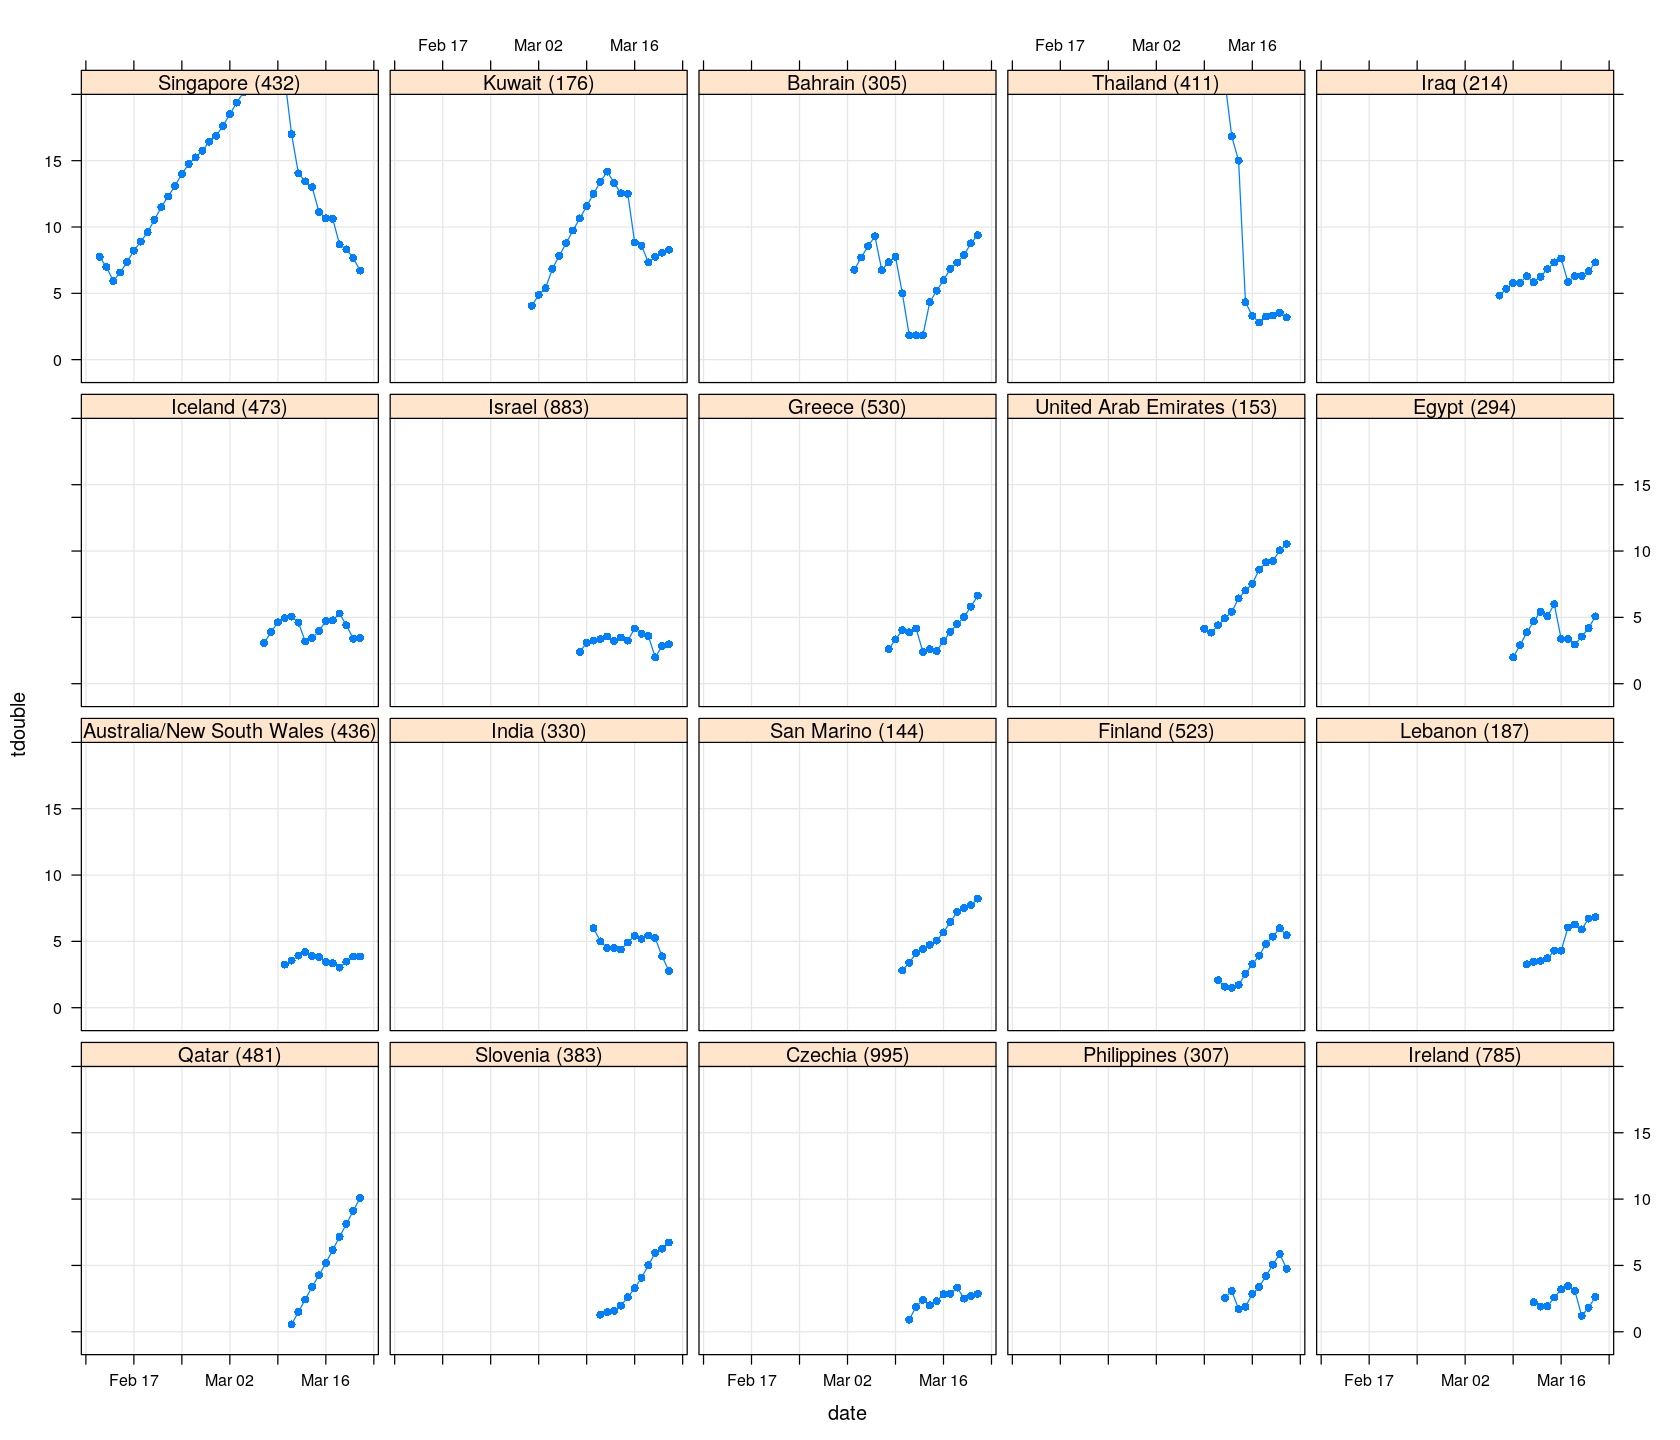
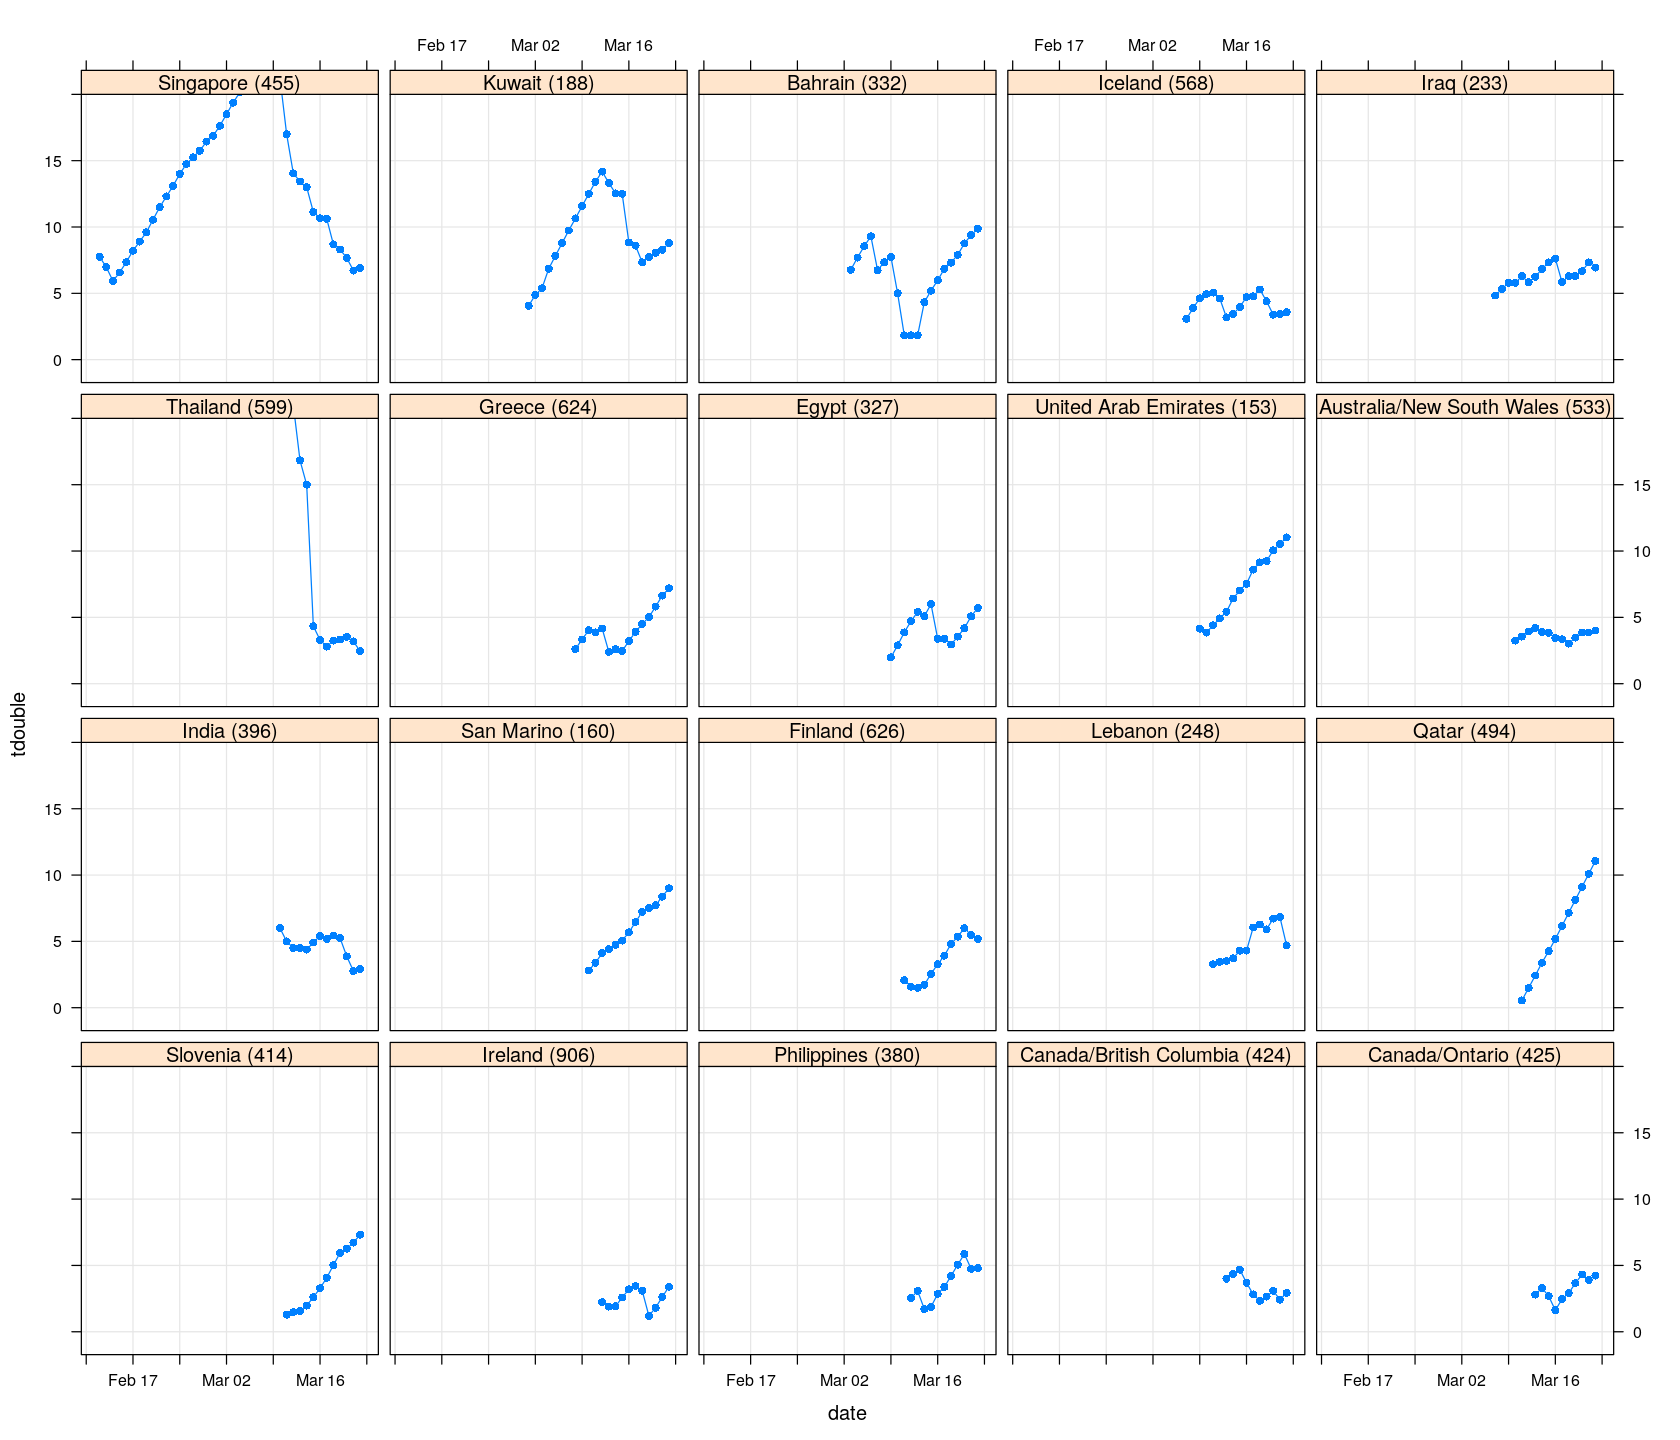
testing markdown rendering

diff --git a/covid-19/doubling.html b/covid-19/doubling.html
@@ -122,7 +122,7 @@ code span.wa { color: #60a0b0; font-weight: bold; font-style: italic; } /* Warni
 <a class="sourceLine" id="cb1-2" title="2"><span class="cf">if</span> (<span class="op">!</span><span class="kw">file.exists</span>(TARGET))</a>
 <a class="sourceLine" id="cb1-3" title="3">    <span class="kw">download.file</span>(<span class="st">&quot;https://github.com/CSSEGISandData/COVID-19/raw/master/csse_covid_19_data/csse_covid_19_time_series/time_series_19-covid-Confirmed.csv&quot;</span>,</a>
 <a class="sourceLine" id="cb1-4" title="4">                  <span class="dt">destfile =</span> TARGET)</a></code></pre></div>
-<p>This version was last updated using data downloaded on 2020-03-22.</p>
+<p>This version was last updated using data downloaded on 2020-03-23.</p>
 <p>Next, read in data:</p>
 <div class="sourceCode" id="cb2"><pre class="sourceCode r"><code class="sourceCode r"><a class="sourceLine" id="cb2-1" title="1">covid &lt;-<span class="st"> </span><span class="kw">read.csv</span>(TARGET, <span class="dt">check.names =</span> <span class="ot">FALSE</span>,</a>
 <a class="sourceLine" id="cb2-2" title="2">                  <span class="dt">stringsAsFactors =</span> <span class="ot">FALSE</span>)</a></code></pre></div>
@@ -236,7 +236,7 @@ code span.wa { color: #60a0b0; font-weight: bold; font-style: italic; } /* Warni
 <a class="sourceLine" id="cb9-8" title="8">       <span class="dt">data =</span> devolution, <span class="dt">type =</span> <span class="st">&quot;o&quot;</span>, <span class="dt">pch =</span> <span class="dv">16</span>, <span class="dt">grid =</span> <span class="ot">TRUE</span>, <span class="dt">ylim =</span> <span class="kw">c</span>(<span class="ot">NA</span>, <span class="dv">20</span>),</a>
 <a class="sourceLine" id="cb9-9" title="9">       <span class="dt">layout =</span> <span class="kw">c</span>(<span class="dv">0</span>, <span class="dv">20</span>), <span class="dt">as.table =</span> <span class="ot">TRUE</span>, <span class="dt">between =</span> <span class="kw">list</span>(<span class="dt">x =</span> <span class="fl">0.5</span>, <span class="dt">y =</span> <span class="fl">0.5</span>),</a>
 <a class="sourceLine" id="cb9-10" title="10">       <span class="dt">abline =</span> <span class="kw">list</span>(<span class="dt">v =</span> <span class="kw">as.Date</span>(<span class="st">&quot;2020-01-23&quot;</span>), <span class="dt">col =</span> <span class="st">&quot;grey50&quot;</span>, <span class="dt">lwd =</span> <span class="dv">2</span>, <span class="dt">lty =</span> <span class="dv">3</span>))</a></code></pre></div>
-<p><img src="figures/doubling-unnamed-chunk-9-1.png" alt="plot of chunk unnamed-chunk-9" /><img src="figures/doubling-unnamed-chunk-9-2.png" alt="plot of chunk unnamed-chunk-9" /><img src="figures/doubling-unnamed-chunk-9-3.png" alt="plot of chunk unnamed-chunk-9" /><br />
+<p><img src="figures/doubling-unnamed-chunk-9-1.png" alt="plot of chunk unnamed-chunk-9" /><img src="figures/doubling-unnamed-chunk-9-2.png" alt="plot of chunk unnamed-chunk-9" /><img src="figures/doubling-unnamed-chunk-9-3.png" alt="plot of chunk unnamed-chunk-9" /><img src="figures/doubling-unnamed-chunk-9-4.png" alt="plot of chunk unnamed-chunk-9" /><br />
 </p>
 <p>It is too early to say how things will go for these countries, as the effect of social distancing measures will not be reflected before a couple of weeks.</p>
 <h3 id="usa">USA</h3>

diff --git a/covid-19/README.md b/covid-19/README.md
@@ -1,8 +1,123 @@
+---
+title: 'Doubling times of COVID-19 cases'
+author: Deepayan Sarkar
+---
 
-Source: 
 
-https://github.com/CSSEGISandData/COVID-19/tree/master/csse_covid_19_data/csse_covid_19_time_series
+Data source: <https://github.com/CSSEGISandData/COVID-19/tree/master/csse_covid_19_data/csse_covid_19_time_series>
 
-https://github.com/CSSEGISandData/COVID-19/raw/master/csse_covid_19_data/csse_covid_19_time_series/time_series_19-covid-Confirmed.csv
+
+
+
+Is "social distancing" working in your country? How is it doing
+compared to other countries? How long will it take for the number of
+cases to reach 50,000? Or 100,000?
+
+This is an attempt to summarize how successfully various countries /
+regions are containing the spread COVID-19, based on a very simple
+summary statistic: how long it is taking to double the number of
+cases, and how this "doubling time" changes over time.
+
+The analysis is based on the official number of _confirmed_ cases,
+based on data provided by [JHU
+CSSE](https://github.com/CSSEGISandData/COVID-19/tree/master/csse_covid_19_data/csse_covid_19_time_series)
+on Github. Not all countries are testing equally aggressively (e.g.,
+India), so these numbers may not reflect the actual number of
+cases. In the long run though, that does not matter as long as the
+_proportion_ of true cases being detected remains more or less stable.
+
+Here is the [source](doubling.rmd) of this analysis, in case you want
+to experiment with it.
+
+
+## Preparatory steps
+
+First, download the data if not done already (to download the latest
+version, delete the file and run again):
+
+
+```r
+TARGET <- "time_series_19-covid-Confirmed.csv"
+if (!file.exists(TARGET))
+    download.file("https://github.com/CSSEGISandData/COVID-19/raw/master/csse_covid_19_data/csse_covid_19_time_series/time_series_19-covid-Confirmed.csv",
+                  destfile = TARGET)
+```
+
+This version was last updated using data downloaded on 2020-03-23.
+
+
+Next, read in data:
+
+
+```r
+covid <- read.csv(TARGET, check.names = FALSE,
+                  stringsAsFactors = FALSE)
+```
+
+Many of the high numbers are provinces in China, where spread is now
+more or less controlled. We consider them separately. Data for the US
+is also available separately by state, and we consider them separately
+as well. We exclude cases on cruise ships, which represent small
+populations.
+
+
+
+```r
+covid.china <- subset(covid, `Country/Region` == "China")
+covid.usa <- subset(covid, `Country/Region` == "US")
+covid.row <- subset(covid, !(`Country/Region` %in%
+                             c("China", "US", "Cruise Ship")))
+```
+
+Next, we extract the time series data of each subset as a data matrix,
+with a crude "smoothing" to account for lags in updating data: If two
+consecutive days have the same total count followed by a large
+increase on the following day, then the most likely explanation is
+that data was not updated on the second day. In such cases, the count
+of the middle day is replaced by the geometric mean of its neighbours.
+
+
+
+```r
+correctLag <- function(x)
+{
+    n <- length(x)
+    stopifnot(n > 2)
+    for (i in seq(2, n-1))
+        if (x[i] == x[i-1])
+            x[i] <- sqrt(x[i-1] * x[i+1])
+    x
+}
+extractCasesTS <- function(d)
+{
+    x <- t(data.matrix(d[, -c(1:4)]))
+    colnames(x) <-
+        with(d, ifelse(`Province/State` == "",
+                       `Country/Region`,
+                       paste(`Country/Region`, `Province/State`,
+                             sep = "/")))
+    ## Update labels to include current total cases
+    colnames(x) <-  sprintf("%s (%g)", colnames(x), x[nrow(x), ])
+    apply(x, 2, correctLag)
+}
+xcovid.china <- extractCasesTS(covid.china)
+xcovid.usa <- extractCasesTS(covid.usa)
+xcovid.row <- extractCasesTS(covid.row)
+```
+
+Outside the US and China, which countries are the worst affected in
+terms of the latest absolute numbers so far?
+
+
+```r
+total.row <- sort(apply(xcovid.row, 2, tail, 1))
+dotplot(total.row[ total.row > 199 ],
+        xlab = "Total cases (NOTE: log scale)",
+        scales = list(x = list(alternating = 3, log = TRUE,
+                               equispaced.log = FALSE)))
+```
+
+![plot of chunk unnamed-chunk-5](figures/doubling-unnamed-chunk-5-1.png)
+\
 
 
